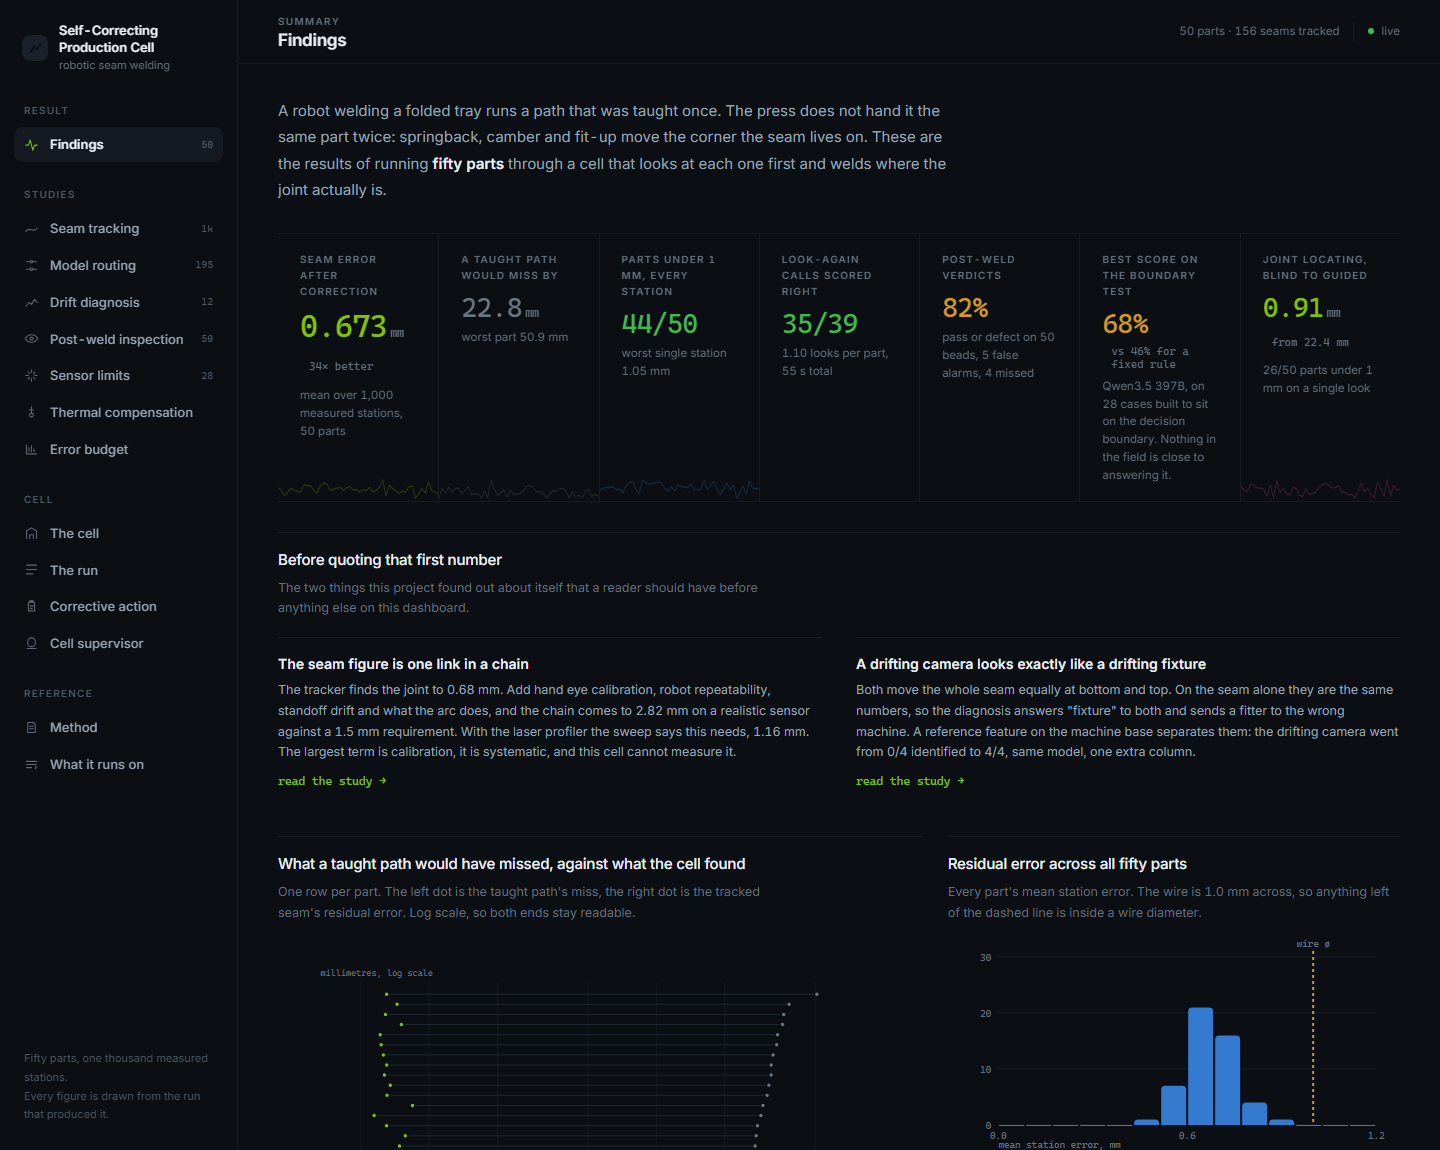
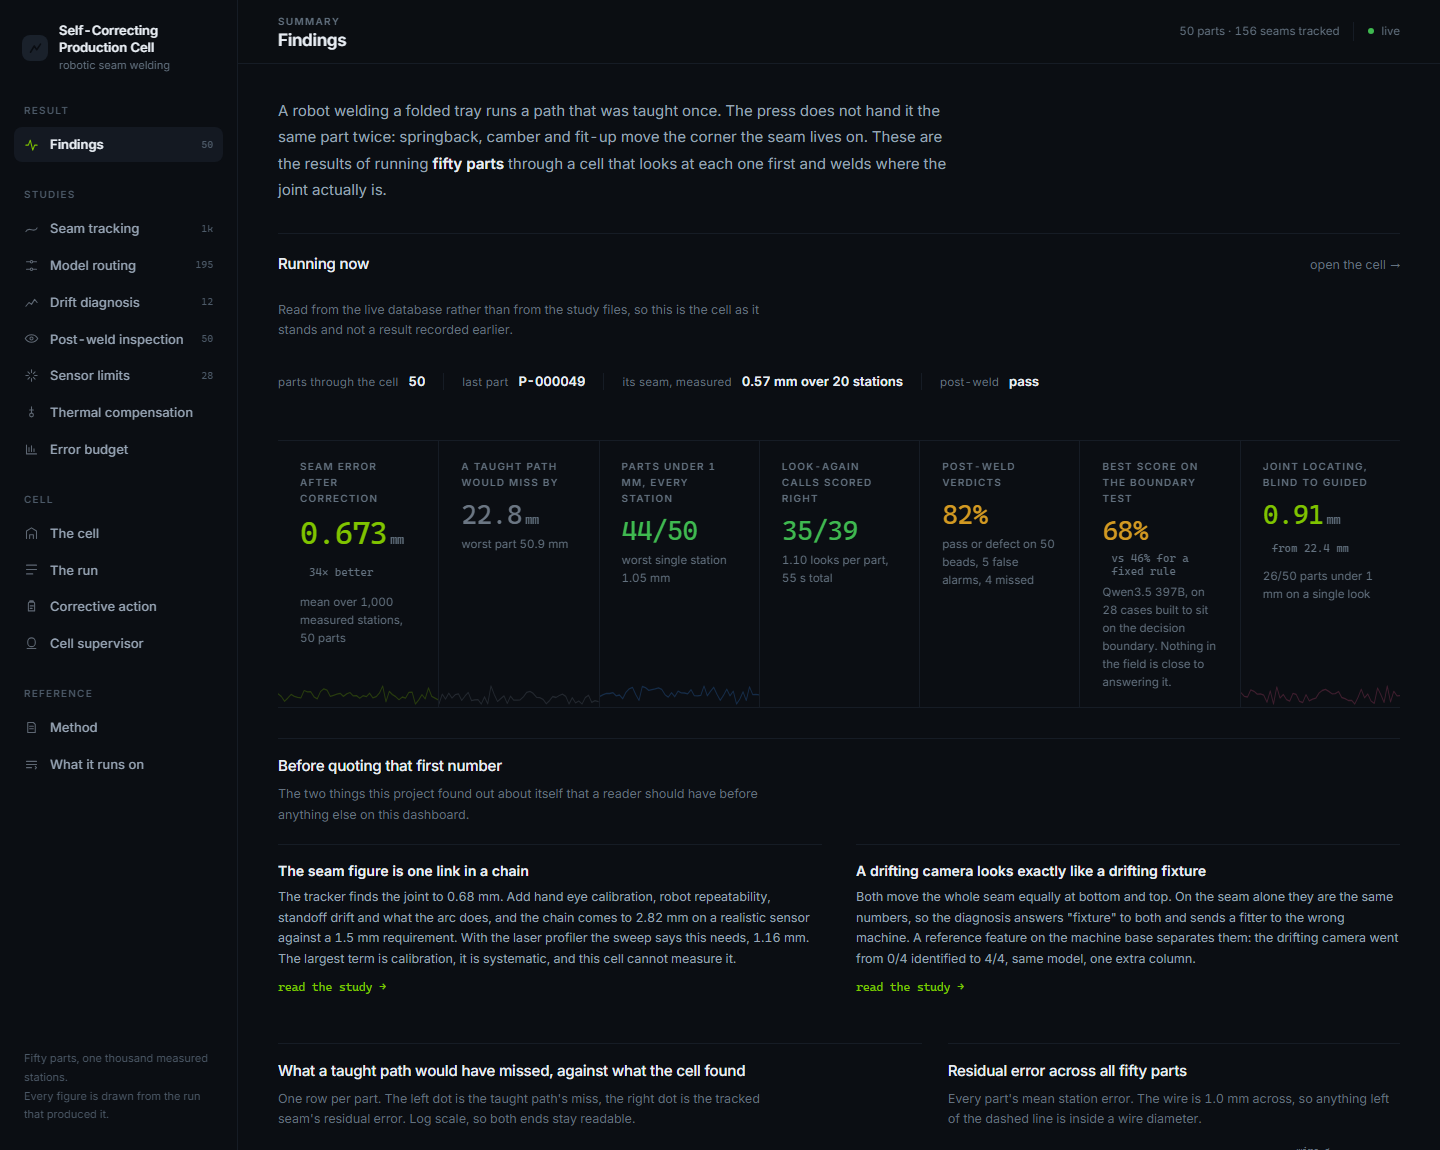
Show that the cell runs, not only that it once produced a table
A summary page can be written without a working system behind it and a reader
cannot tell from the numbers. The Findings page now opens with a band read from
the live database: parts through the cell, the last one, its measured seam, its
post-weld verdict, and a link into the 3D view. On a fresh clone it says instead
that nothing has been through the cell and names the command that fixes that,
which is the first thing a judge arriving cold needs to know.

scripts/make_figures.py redraws every figure the README shows, including the two
screenshots when a service and a Chrome are around, and says which it skipped
when they are not.

Verified on an empty database and a populated one: 14 of 14 pages, 36 charts, no
console errors, no empty states.

diff --git a/dashboard/static/pages/overview.js b/dashboard/static/pages/overview.js
@@ -1,7 +1,7 @@
 /* The headline page: what the cell claims, and the evidence for it, above the fold. */
 
 import * as V from "../viz.js";
-import { state, loadEvidence } from "../store.js";
+import { state, loadEvidence, refreshLive } from "../store.js";
 
 export const meta = {
   id: "overview",
@@ -12,6 +12,48 @@ export const meta = {
   icon: "M3 13h4l3-8 4 16 3-8h4",
 };
 
+/** Proof the thing runs, not just that it once produced a table.
+
+  A summary page can be written without a working system behind it, and a reader
+  has no way to tell from the numbers alone. This band reads the live database, so
+  it is empty until something has actually been through the cell.
+*/
+function liveBand() {
+  const host = V.$("ov-live");
+  if (!host) return;
+  const live = state.live;
+  if (!live || !state.connected || !live.parts.length) {
+    host.innerHTML = `<div class="hint" style="margin:0 0 18px">
+      Nothing has been through the cell yet. <code>python scripts/demo.py</code>
+      runs six parts through it in about three seconds.</div>`;
+    return;
+  }
+  const latest = live.parts[0];
+  const slot = live.byPart.get(latest.id) || {};
+  const seam = slot.seam;
+  const bits = [
+    ["parts through the cell", live.parts.length],
+    ["last part", V.esc(latest.serial)],
+  ];
+  if (seam && seam.error_mm != null) {
+    bits.push(["its seam, measured", `${V.fmt(seam.error_mm, 2)} mm over `
+      + `${seam.stations_measured} stations`]);
+  }
+  if (slot.inspection) {
+    bits.push(["post-weld", V.esc(slot.inspection.verdict)]);
+  }
+  host.innerHTML = `<div class="card w12" style="margin-bottom:18px">
+    <header><h2>Running now</h2>
+      <span style="flex:1"></span>
+      <a class="hint" href="#/cell" style="text-decoration:none">open the cell &rarr;</a>
+    </header>
+    <div class="hint">Read from the live database rather than from the study files, so
+      this is the cell as it stands and not a result recorded earlier.</div>
+    <div class="kv">${bits.map(([k, v]) =>
+      `<span class="k">${k}</span> <b>${v}</b>`).join("<span class='sep'></span>")}</div>
+  </div>`;
+}
+
 export function render() {
   return `
     <p class="lede">
@@ -20,6 +62,7 @@ export function render() {
       the seam lives on. These are the results of running <b>fifty parts</b> through a
       cell that looks at each one first and welds where the joint actually is.
     </p>
+    <div id="ov-live"></div>
     <div class="tiles" id="ov-tiles"></div>
 
     <div class="grid">
@@ -60,8 +103,11 @@ export function render() {
     </div>`;
 }
 
+export function update() { liveBand(); }
+
 export async function mount() {
-  const ev = await loadEvidence();
+  const [ev] = await Promise.all([loadEvidence(), refreshLive()]);
+  liveBand();
   tiles(ev);
   dumbbell(ev);
   hist(ev);

diff --git a/dashboard/static/theme.css b/dashboard/static/theme.css
@@ -245,6 +245,19 @@ svg text[fill] { font-family: var(--mono); }
 .legend i { width: 9px; height: 9px; border-radius: 2px; display: inline-block; flex: none; }
 .legend i.line { height: 2px; border-radius: 1px; width: 14px; }
 
+/* A row of live facts: a muted label beside the value it belongs to. Used on the
+   summary page to show the cell is running rather than only that it once ran. */
+.kv {
+  display: flex; flex-wrap: wrap; align-items: baseline; gap: 6px 10px;
+  margin-top: 12px; font-size: 13px; color: var(--text-secondary);
+}
+.kv .k { color: var(--text-muted); font-size: 11.5px; letter-spacing: .02em; }
+.kv b { color: var(--text-primary); font-weight: 600; }
+.kv .sep {
+  width: 1px; align-self: stretch; margin: 2px 8px;
+  background: var(--hair); display: inline-block;
+}
+
 /* --------------------------------------------------------------- data views */
 
 table { width: 100%; border-collapse: collapse; font-size: 12.5px; }
